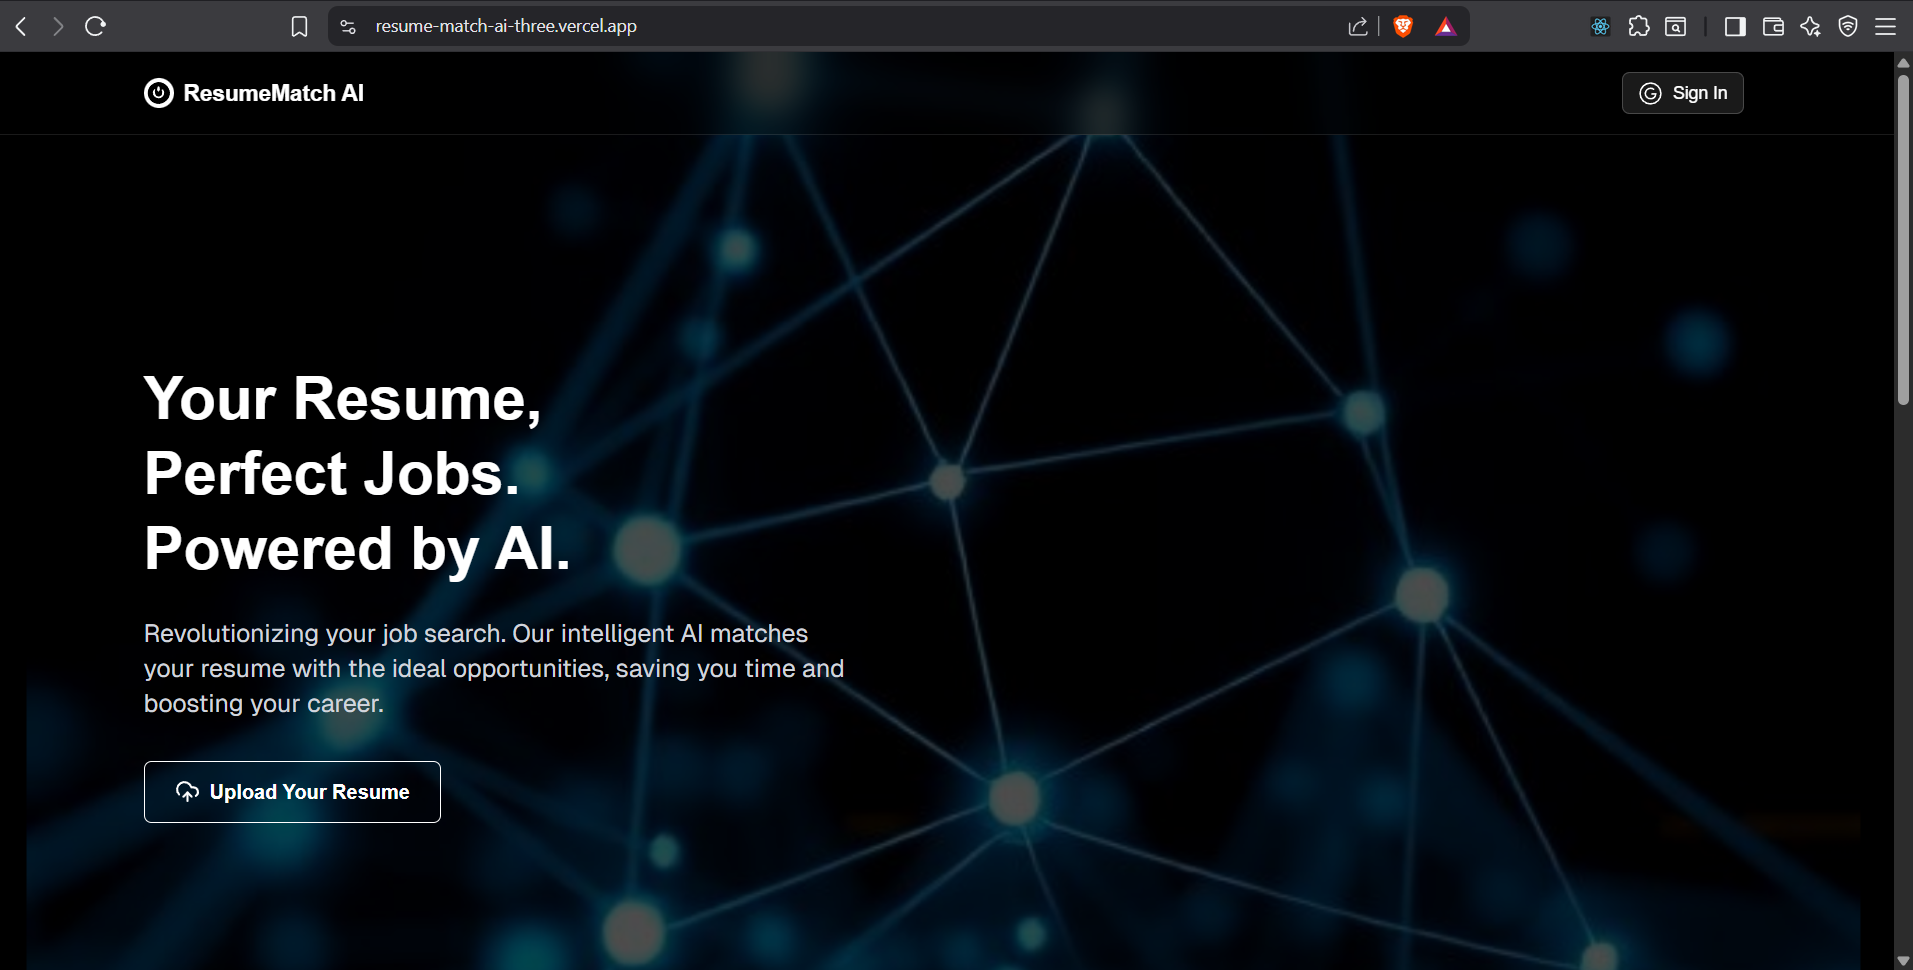
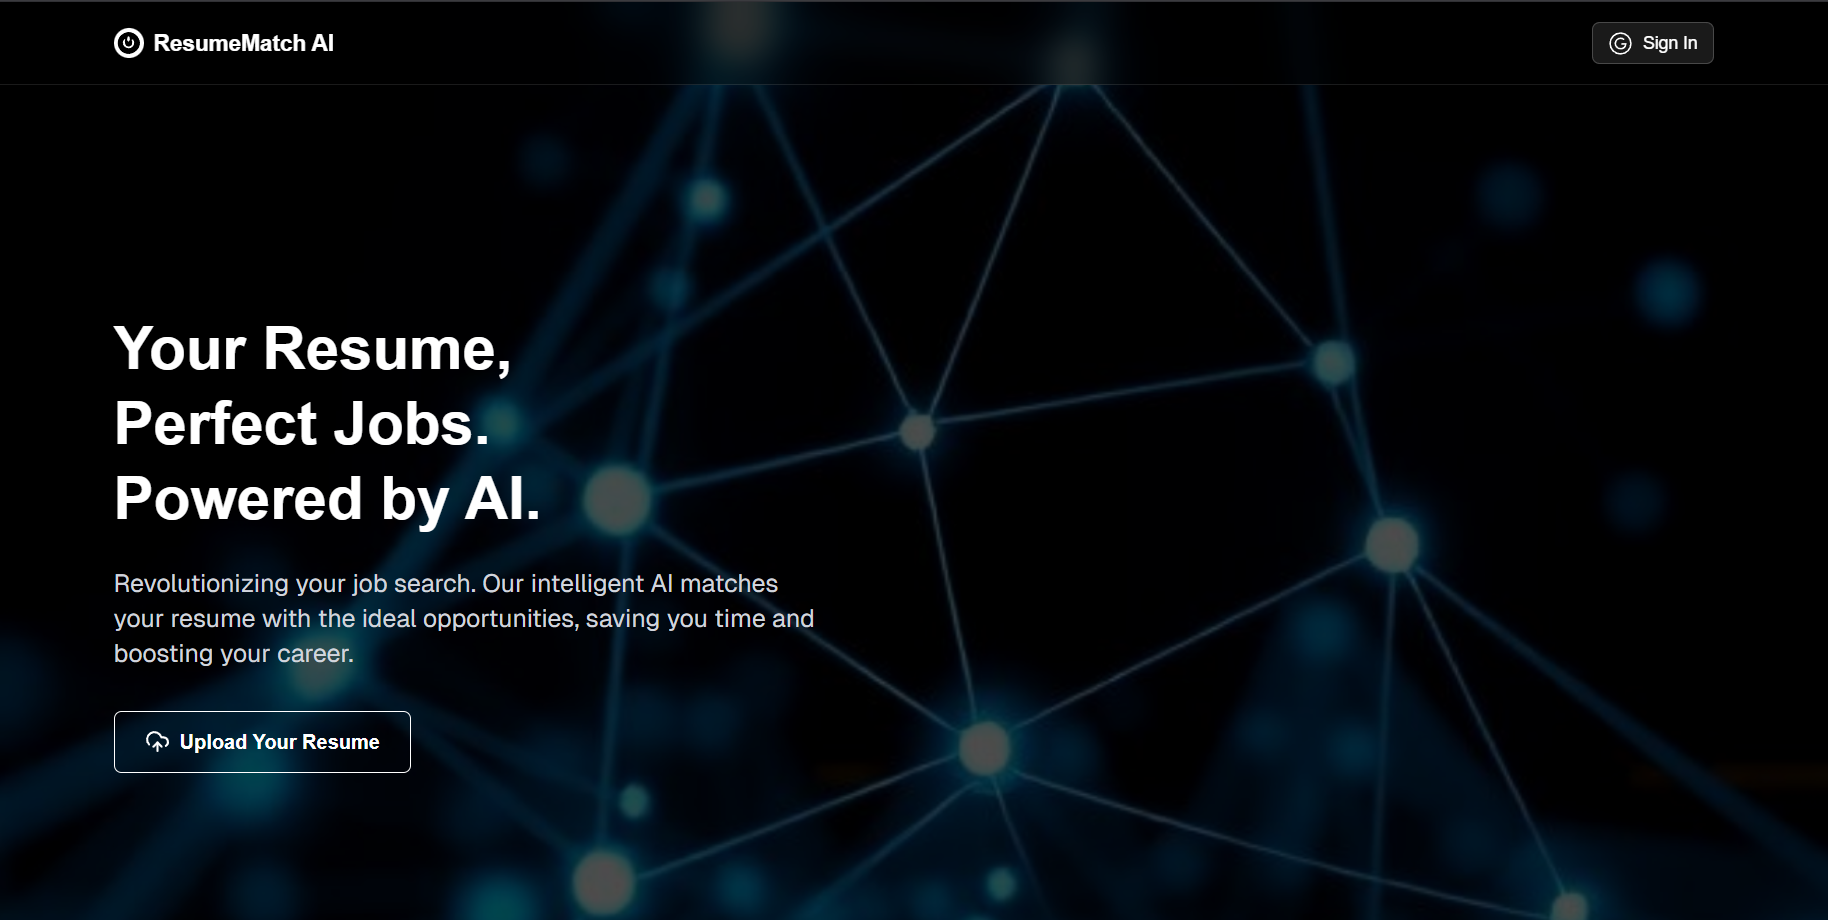
readme file updated

diff --git a/README.md b/README.md
@@ -2,7 +2,9 @@ ResumeMatch AI
 
 AI-powered resume analyzer that intelligently matches your resume with the most relevant and up-to-date job postings based on your skills and experience.
 
-<img src="./public/image.png" alt="Landing-page image" width="600" />
+<p align="center">
+   <img src="./public/image.png" alt="Landing-page image" width="600"/>
+</p>
 
 More info at: https://resume-match-ai-three.vercel.app
 
